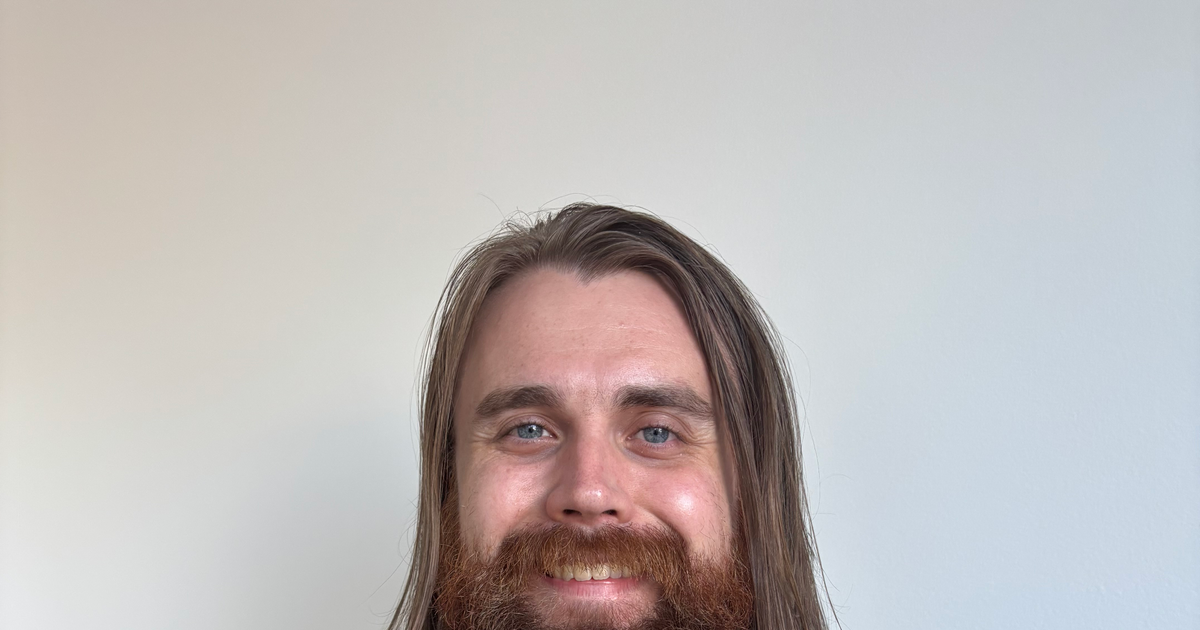
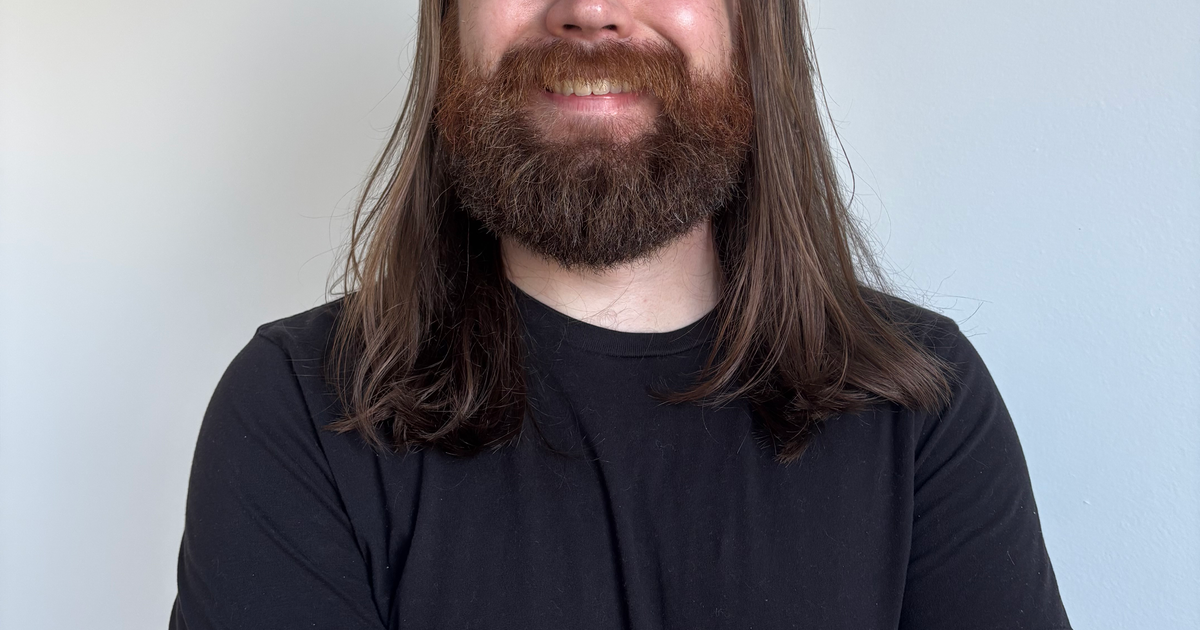
fix(05-02): round 2 UAT fixes — form detection, portrait size, OG centering
- Add hidden static form to layout.tsx for reliable Netlify Forms detection
  (Netlify recommends this pattern for all JS frameworks — AJAX submissions
  require the form to be registered from a clean, shallow HTML element)
- Resize Ty.webp to 560px wide (2x retina for 280px display): 1.4MB → 31KB (99%)
  Lighthouse performance should now clear 90 threshold
- Regenerate og-image.png with position:'center' instead of 'top'
  Face was cut off because EXIF-corrected portrait centers face in middle half

diff --git a/app/layout.tsx b/app/layout.tsx
@@ -63,6 +63,13 @@ export default function RootLayout({
     <html lang="en" className={cascadiaCode.variable}>
       <body>
         <JsonLd />
+        {/* Hidden form for Netlify Forms detection — required for JS-framework AJAX submissions */}
+        <form name="contact" data-netlify="true" netlify-honeypot="bot-field" hidden aria-hidden="true">
+          <input type="text" name="name" />
+          <input type="email" name="email" />
+          <textarea name="message" />
+          <input type="text" name="bot-field" />
+        </form>
         <a href="#main-content" className="skip-link">Skip to main content</a>
         <Nav />
         {children}
